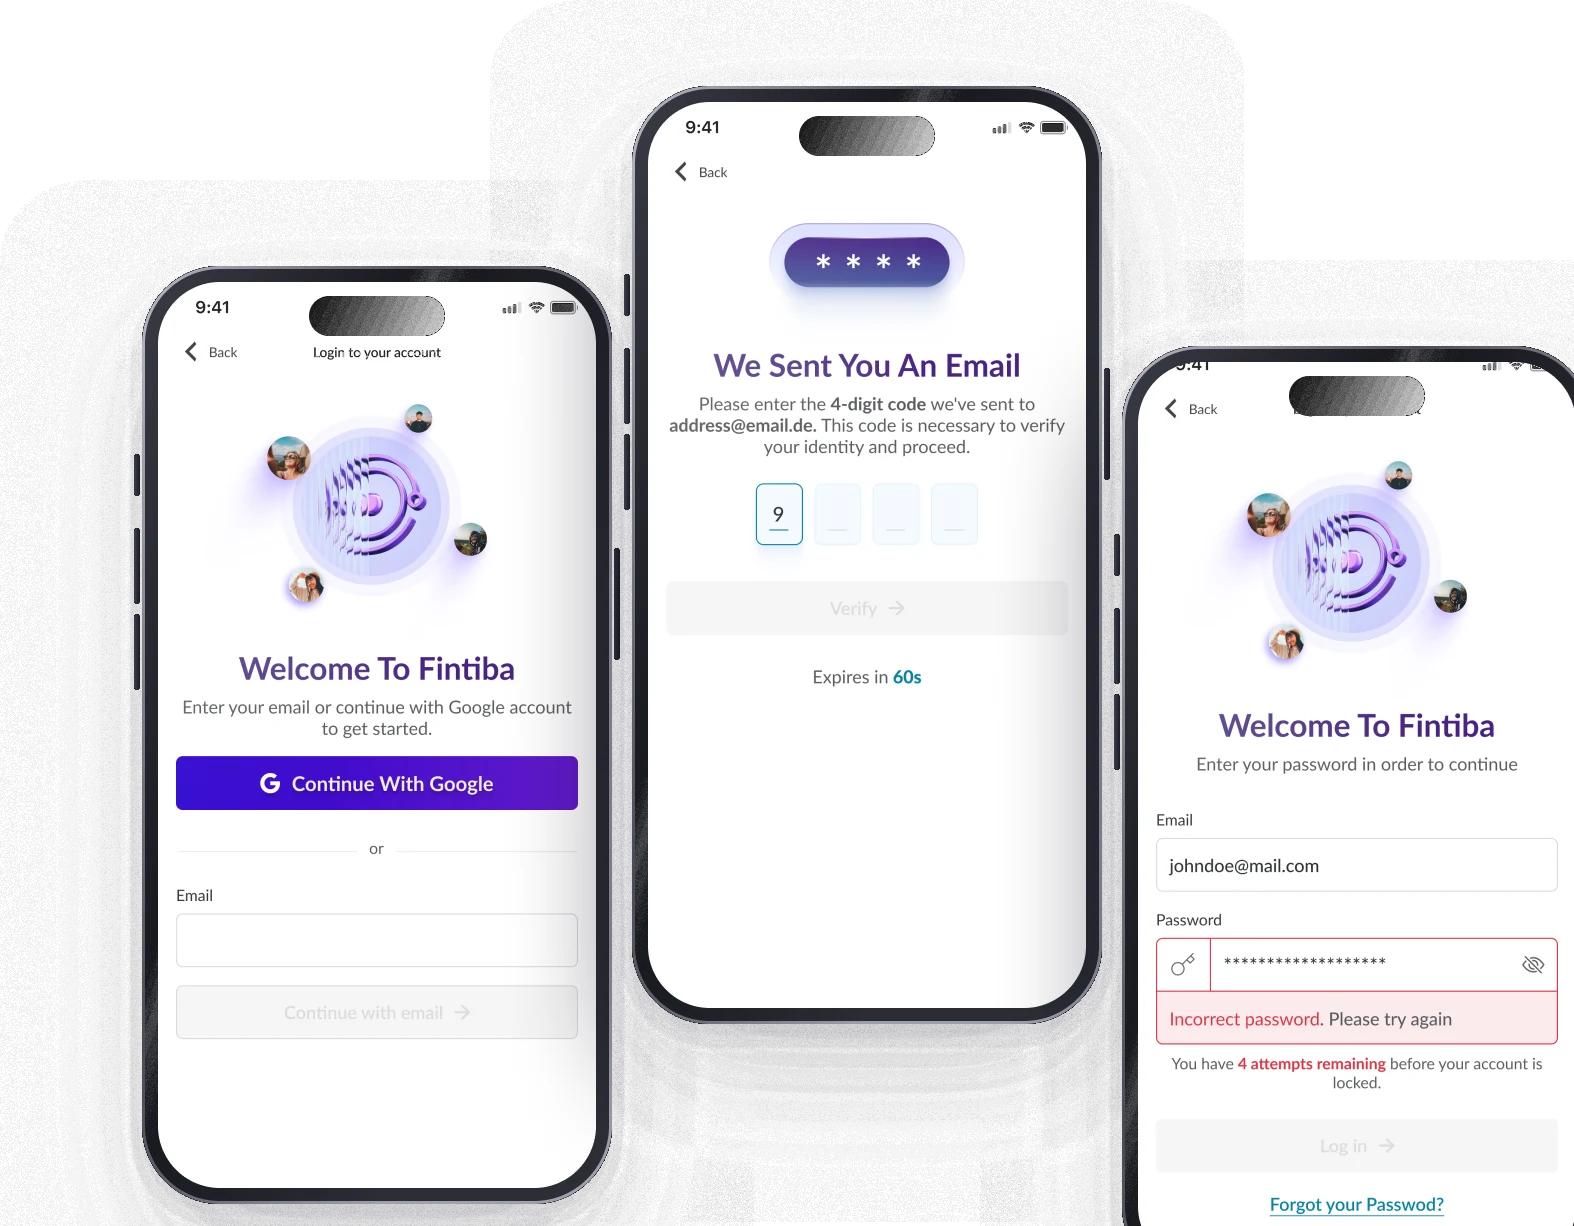
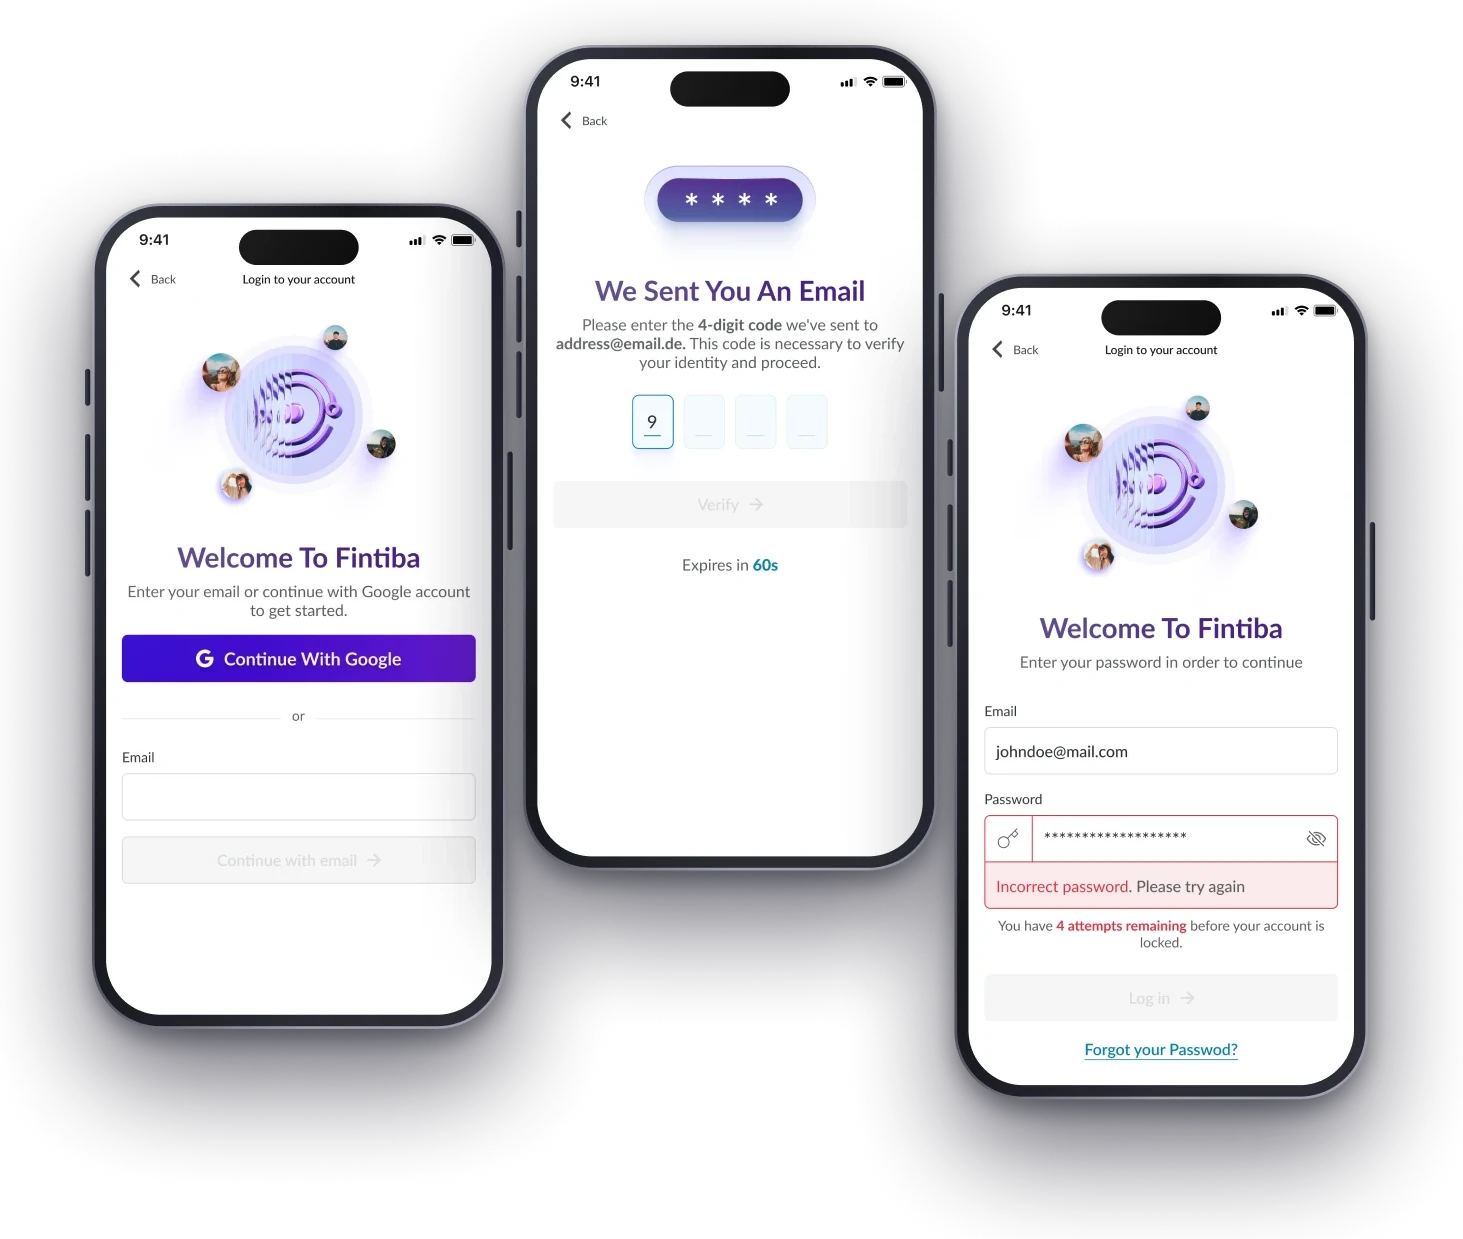
Login case: decision phones fully visible, right screen not cropped
Claude-Session: https://claude.ai/code/session_011pq2ADq6rPTZrVGSK3qx6v

diff --git a/cases/login.html b/cases/login.html
@@ -260,7 +260,7 @@
           </ol>
         </div>
         <div class="lg-dec__phones" data-par="0.12">
-          <img src="../assets/img/login/phones.webp" width="1574" height="1226" alt="Три экрана приложения: вход через Google, ввод кода из письма, ошибка пароля со счётчиком попыток" loading="lazy" data-zoom>
+          <img src="../assets/img/login/phones.webp?v=1793468001" width="1463" height="1239" alt="Три экрана приложения: вход через Google, ввод кода из письма, ошибка пароля со счётчиком попыток" loading="lazy" data-zoom>
         </div>
       </div>
     </section>
